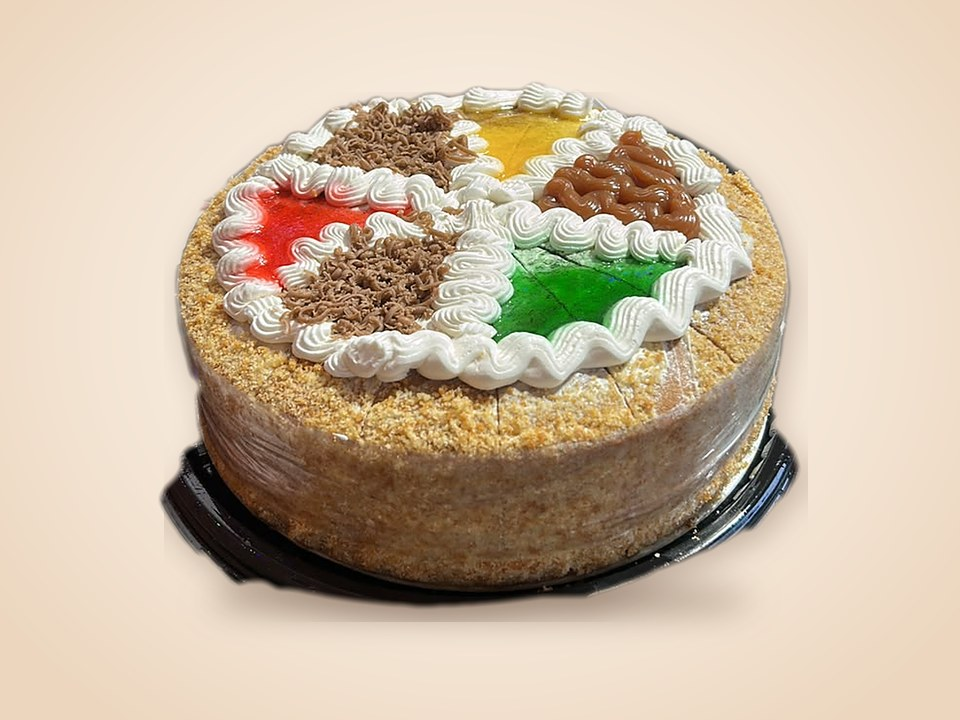
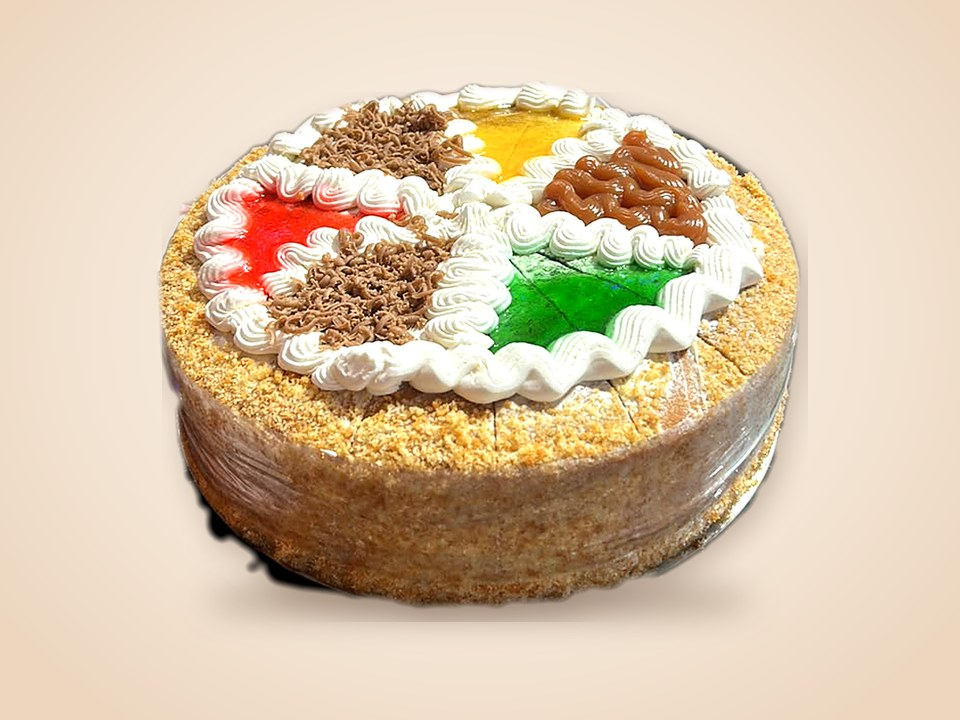
Foto del Cheesecake decorado; Torta decorada sin bandeja y con más brillo
Claude-Session: https://claude.ai/code/session_01CXgPpzeanZSn7nNy7uupPz

diff --git a/index.html b/index.html
@@ -86,7 +86,7 @@ a{color:#9A4A0E}a:hover{color:#3A2216}
 <button type="button" aria-label="Ver siguientes" data-act="next" class="bj-arrow" style="width: 56px; height: 56px; border-radius: 999px; border: 2px solid #3A2216; background: #3A2216; color: #F5E6D3; display: flex; align-items: center; justify-content: center; cursor: pointer"><svg aria-hidden="true" width="22" height="22" viewBox="0 0 24 24" fill="none" stroke="currentColor" stroke-width="2.4" stroke-linecap="round" stroke-linejoin="round"><path d="M9 6l6 6-6 6"></path></svg></button>
 </div>
 </div>
-<div data-track="1" class="bj-track" style="display: flex; gap: 20px; overflow-x: auto; scroll-snap-type: x mandatory; scroll-padding: 0; box-sizing: content-box; max-width: 2080px; margin: 0 auto; padding: 36px clamp(20px, 4vw, 56px) 8px; scroll-padding-left: clamp(20px, 4vw, 56px)"><article class="bj-card" tabindex="0" style="flex: 0 0 clamp(250px, 16vw, 340px); scroll-snap-align: start; box-sizing: border-box; padding: 12px 12px 18px; border-radius: 24px; background: #FFF8EF; border: 1.5px solid #E3C9AC; display: flex; flex-direction: column; gap: 12px"><img class="bj-cardcat" src="assets/catface.png" alt="" aria-hidden="true"><img src="assets/cheesecake-junior.jpg" alt="Cheesecake Junior" style="display: block; width: 100%; aspect-ratio: 4 / 3; object-fit: cover; border-radius: 16px; background: #F3E2CF"><div style="display: flex; flex-direction: column; gap: 8px; padding: 0 6px"><h3 style="margin: 0; font-family: Fredoka, sans-serif; font-weight: 600; font-size: 20px; line-height: 1.15; color: #3A2216">Cheesecake Junior</h3><div style="display: flex; flex-wrap: wrap; gap: 6px"><span style="display: inline-block; padding: 5px 12px; border-radius: 999px; border: 1.5px solid #E8701A; color: #9A4A0E; font-size: 13px; font-weight: 700">10 porciones</span></div></div></article><article class="bj-card" tabindex="0" style="flex: 0 0 clamp(250px, 16vw, 340px); scroll-snap-align: start; box-sizing: border-box; padding: 12px 12px 18px; border-radius: 24px; background: #FFF8EF; border: 1.5px solid #E3C9AC; display: flex; flex-direction: column; gap: 12px"><img class="bj-cardcat" src="assets/catface.png" alt="" aria-hidden="true"><img src="assets/cheesecake-grande.jpg" alt="Cheesecake Grande" style="display: block; width: 100%; aspect-ratio: 4 / 3; object-fit: cover; border-radius: 16px; background: #F3E2CF"><div style="display: flex; flex-direction: column; gap: 8px; padding: 0 6px"><h3 style="margin: 0; font-family: Fredoka, sans-serif; font-weight: 600; font-size: 20px; line-height: 1.15; color: #3A2216">Cheesecake Grande</h3><div style="display: flex; flex-wrap: wrap; gap: 6px"><span style="display: inline-block; padding: 5px 12px; border-radius: 999px; border: 1.5px solid #E8701A; color: #9A4A0E; font-size: 13px; font-weight: 700">12 porciones</span></div></div></article><article class="bj-card" tabindex="0" style="flex: 0 0 clamp(250px, 16vw, 340px); scroll-snap-align: start; box-sizing: border-box; padding: 12px 12px 18px; border-radius: 24px; background: #FFF8EF; border: 1.5px solid #E3C9AC; display: flex; flex-direction: column; gap: 12px"><img class="bj-cardcat" src="assets/catface.png" alt="" aria-hidden="true"><img src="assets/torta-grande.jpg" alt="Torta Grande" style="display: block; width: 100%; aspect-ratio: 4 / 3; object-fit: cover; border-radius: 16px; background: #F3E2CF"><div style="display: flex; flex-direction: column; gap: 8px; padding: 0 6px"><h3 style="margin: 0; font-family: Fredoka, sans-serif; font-weight: 600; font-size: 20px; line-height: 1.15; color: #3A2216">Torta Grande</h3><p style="margin: 0; font-size: 14px; line-height: 1.45; color: #6B4430">Vainilla, naranja, chocolate o vino</p></div></article><article class="bj-card" tabindex="0" style="flex: 0 0 clamp(250px, 16vw, 340px); scroll-snap-align: start; box-sizing: border-box; padding: 12px 12px 18px; border-radius: 24px; background: #FFF8EF; border: 1.5px solid #E3C9AC; display: flex; flex-direction: column; gap: 12px"><img class="bj-cardcat" src="assets/catface.png" alt="" aria-hidden="true"><img src="assets/torta-junior.jpg" alt="Torta Junior" style="display: block; width: 100%; aspect-ratio: 4 / 3; object-fit: cover; border-radius: 16px; background: #F3E2CF"><div style="display: flex; flex-direction: column; gap: 8px; padding: 0 6px"><h3 style="margin: 0; font-family: Fredoka, sans-serif; font-weight: 600; font-size: 20px; line-height: 1.15; color: #3A2216">Torta Junior</h3><p style="margin: 0; font-size: 14px; line-height: 1.45; color: #6B4430">Vainilla, naranja, chocolate o vino</p></div></article><article class="bj-card" tabindex="0" style="flex: 0 0 clamp(250px, 16vw, 340px); scroll-snap-align: start; box-sizing: border-box; padding: 12px 12px 18px; border-radius: 24px; background: #FFF8EF; border: 1.5px solid #E3C9AC; display: flex; flex-direction: column; gap: 12px"><img class="bj-cardcat" src="assets/catface.png" alt="" aria-hidden="true"><img src="assets/torta-decorada.jpg" alt="Torta decorada tradicional" style="display: block; width: 100%; aspect-ratio: 4 / 3; object-fit: cover; border-radius: 16px; background: #F3E2CF"><div style="display: flex; flex-direction: column; gap: 8px; padding: 0 6px"><h3 style="margin: 0; font-family: Fredoka, sans-serif; font-weight: 600; font-size: 20px; line-height: 1.15; color: #3A2216">Torta decorada tradicional</h3></div></article><article class="bj-card" tabindex="0" style="flex: 0 0 clamp(250px, 16vw, 340px); scroll-snap-align: start; box-sizing: border-box; padding: 12px 12px 18px; border-radius: 24px; background: #FFF8EF; border: 1.5px solid #E3C9AC; display: flex; flex-direction: column; gap: 12px"><img class="bj-cardcat" src="assets/catface.png" alt="" aria-hidden="true"><div style="width: 100%; aspect-ratio: 4 / 3; border-radius: 16px; background: repeating-linear-gradient(90deg, #F6E7D4 0 18px, #EFD9BF 18px 36px); display: flex; flex-direction: column; align-items: center; justify-content: center; gap: 8px"><img src="assets/logo.png" alt="" style="width: 92px; opacity: 0.55"><span style="font-size: 13px; font-weight: 700; color: #6B4430; letter-spacing: 0.04em; text-transform: uppercase">Foto próximamente</span></div><div style="display: flex; flex-direction: column; gap: 8px; padding: 0 6px"><h3 style="margin: 0; font-family: Fredoka, sans-serif; font-weight: 600; font-size: 20px; line-height: 1.15; color: #3A2216">Cheesecake decorado</h3></div></article></div>
+<div data-track="1" class="bj-track" style="display: flex; gap: 20px; overflow-x: auto; scroll-snap-type: x mandatory; scroll-padding: 0; box-sizing: content-box; max-width: 2080px; margin: 0 auto; padding: 36px clamp(20px, 4vw, 56px) 8px; scroll-padding-left: clamp(20px, 4vw, 56px)"><article class="bj-card" tabindex="0" style="flex: 0 0 clamp(250px, 16vw, 340px); scroll-snap-align: start; box-sizing: border-box; padding: 12px 12px 18px; border-radius: 24px; background: #FFF8EF; border: 1.5px solid #E3C9AC; display: flex; flex-direction: column; gap: 12px"><img class="bj-cardcat" src="assets/catface.png" alt="" aria-hidden="true"><img src="assets/cheesecake-junior.jpg" alt="Cheesecake Junior" style="display: block; width: 100%; aspect-ratio: 4 / 3; object-fit: cover; border-radius: 16px; background: #F3E2CF"><div style="display: flex; flex-direction: column; gap: 8px; padding: 0 6px"><h3 style="margin: 0; font-family: Fredoka, sans-serif; font-weight: 600; font-size: 20px; line-height: 1.15; color: #3A2216">Cheesecake Junior</h3><div style="display: flex; flex-wrap: wrap; gap: 6px"><span style="display: inline-block; padding: 5px 12px; border-radius: 999px; border: 1.5px solid #E8701A; color: #9A4A0E; font-size: 13px; font-weight: 700">10 porciones</span></div></div></article><article class="bj-card" tabindex="0" style="flex: 0 0 clamp(250px, 16vw, 340px); scroll-snap-align: start; box-sizing: border-box; padding: 12px 12px 18px; border-radius: 24px; background: #FFF8EF; border: 1.5px solid #E3C9AC; display: flex; flex-direction: column; gap: 12px"><img class="bj-cardcat" src="assets/catface.png" alt="" aria-hidden="true"><img src="assets/cheesecake-grande.jpg" alt="Cheesecake Grande" style="display: block; width: 100%; aspect-ratio: 4 / 3; object-fit: cover; border-radius: 16px; background: #F3E2CF"><div style="display: flex; flex-direction: column; gap: 8px; padding: 0 6px"><h3 style="margin: 0; font-family: Fredoka, sans-serif; font-weight: 600; font-size: 20px; line-height: 1.15; color: #3A2216">Cheesecake Grande</h3><div style="display: flex; flex-wrap: wrap; gap: 6px"><span style="display: inline-block; padding: 5px 12px; border-radius: 999px; border: 1.5px solid #E8701A; color: #9A4A0E; font-size: 13px; font-weight: 700">12 porciones</span></div></div></article><article class="bj-card" tabindex="0" style="flex: 0 0 clamp(250px, 16vw, 340px); scroll-snap-align: start; box-sizing: border-box; padding: 12px 12px 18px; border-radius: 24px; background: #FFF8EF; border: 1.5px solid #E3C9AC; display: flex; flex-direction: column; gap: 12px"><img class="bj-cardcat" src="assets/catface.png" alt="" aria-hidden="true"><img src="assets/torta-grande.jpg" alt="Torta Grande" style="display: block; width: 100%; aspect-ratio: 4 / 3; object-fit: cover; border-radius: 16px; background: #F3E2CF"><div style="display: flex; flex-direction: column; gap: 8px; padding: 0 6px"><h3 style="margin: 0; font-family: Fredoka, sans-serif; font-weight: 600; font-size: 20px; line-height: 1.15; color: #3A2216">Torta Grande</h3><p style="margin: 0; font-size: 14px; line-height: 1.45; color: #6B4430">Vainilla, naranja, chocolate o vino</p></div></article><article class="bj-card" tabindex="0" style="flex: 0 0 clamp(250px, 16vw, 340px); scroll-snap-align: start; box-sizing: border-box; padding: 12px 12px 18px; border-radius: 24px; background: #FFF8EF; border: 1.5px solid #E3C9AC; display: flex; flex-direction: column; gap: 12px"><img class="bj-cardcat" src="assets/catface.png" alt="" aria-hidden="true"><img src="assets/torta-junior.jpg" alt="Torta Junior" style="display: block; width: 100%; aspect-ratio: 4 / 3; object-fit: cover; border-radius: 16px; background: #F3E2CF"><div style="display: flex; flex-direction: column; gap: 8px; padding: 0 6px"><h3 style="margin: 0; font-family: Fredoka, sans-serif; font-weight: 600; font-size: 20px; line-height: 1.15; color: #3A2216">Torta Junior</h3><p style="margin: 0; font-size: 14px; line-height: 1.45; color: #6B4430">Vainilla, naranja, chocolate o vino</p></div></article><article class="bj-card" tabindex="0" style="flex: 0 0 clamp(250px, 16vw, 340px); scroll-snap-align: start; box-sizing: border-box; padding: 12px 12px 18px; border-radius: 24px; background: #FFF8EF; border: 1.5px solid #E3C9AC; display: flex; flex-direction: column; gap: 12px"><img class="bj-cardcat" src="assets/catface.png" alt="" aria-hidden="true"><img src="assets/torta-decorada.jpg" alt="Torta decorada tradicional" style="display: block; width: 100%; aspect-ratio: 4 / 3; object-fit: cover; border-radius: 16px; background: #F3E2CF"><div style="display: flex; flex-direction: column; gap: 8px; padding: 0 6px"><h3 style="margin: 0; font-family: Fredoka, sans-serif; font-weight: 600; font-size: 20px; line-height: 1.15; color: #3A2216">Torta decorada tradicional</h3></div></article><article class="bj-card" tabindex="0" style="flex: 0 0 clamp(250px, 16vw, 340px); scroll-snap-align: start; box-sizing: border-box; padding: 12px 12px 18px; border-radius: 24px; background: #FFF8EF; border: 1.5px solid #E3C9AC; display: flex; flex-direction: column; gap: 12px"><img class="bj-cardcat" src="assets/catface.png" alt="" aria-hidden="true"><img src="assets/cheesecake-decorado.jpg" alt="Cheesecake decorado" style="display: block; width: 100%; aspect-ratio: 4 / 3; object-fit: cover; border-radius: 16px; background: #F3E2CF"><div style="display: flex; flex-direction: column; gap: 8px; padding: 0 6px"><h3 style="margin: 0; font-family: Fredoka, sans-serif; font-weight: 600; font-size: 20px; line-height: 1.15; color: #3A2216">Cheesecake decorado</h3></div></article></div>
 </section><section id="mini" data-row="1" style="background: #3A2216; padding: 72px 0 80px">
 <div style="max-width: 2080px; margin: 0 auto; padding: 0 clamp(20px, 4vw, 56px); display: flex; flex-wrap: wrap; align-items: flex-end; justify-content: space-between; gap: 20px">
 <div style="display: flex; flex-direction: column; gap: 6px">
